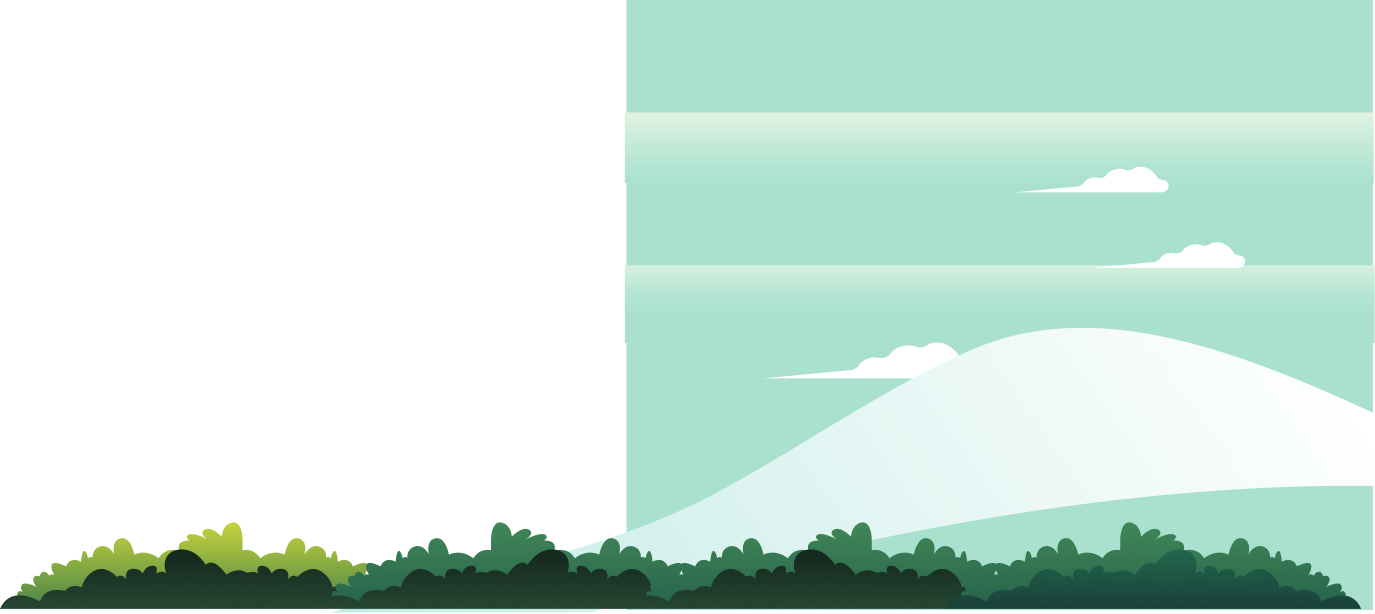
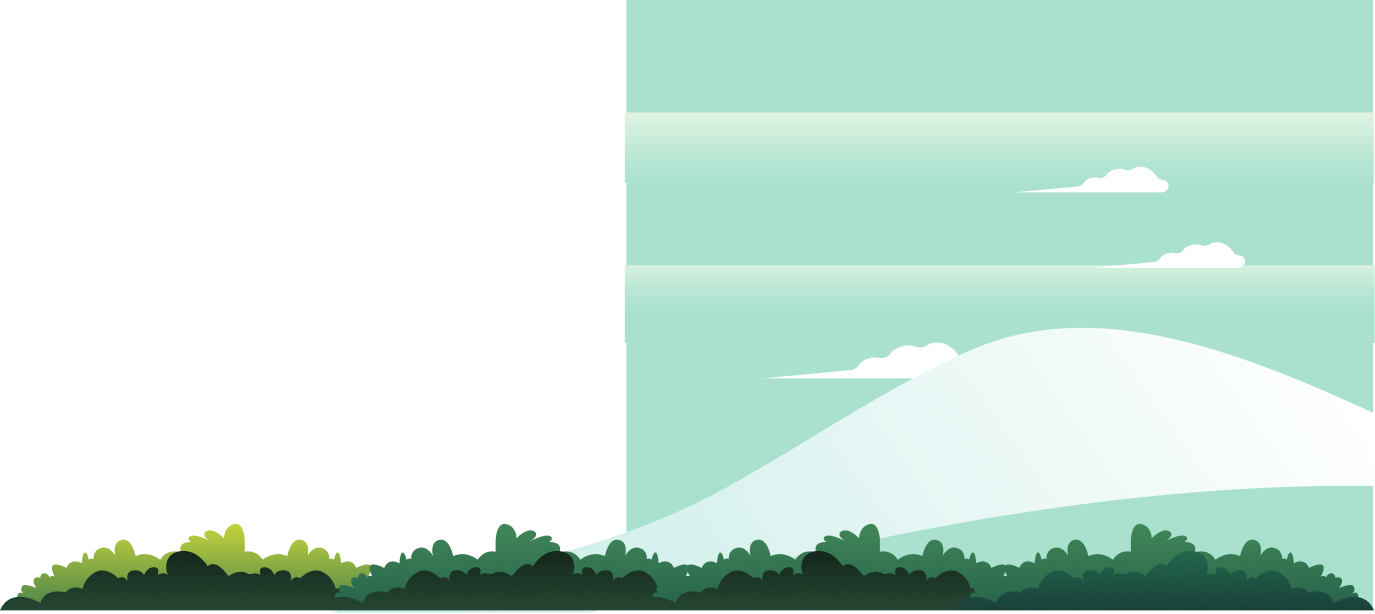
upgrade

diff --git a/gallery.html b/gallery.html
@@ -50,6 +50,23 @@
             <p>Pada halaman ini, anda dapat melihat foto kegiatan masyarakat dalam mengelola berbagai olahan singkong.</p>
           </div>
         </div>
+        <div class="row justify-content-center baris-2">
+          <div class="col-10">
+            <img src="img/scroll-down.png" alt="">
+            <h1>Geser Ke Bawah</h1>
+          </div>
+        </div>
+      </div>
+    </div>
+    <div class="main-2">
+      <div class="container">
+        <div class="jumbotron">
+          <h1 class="display-4">Hello, world!</h1>
+          <p class="lead">This is a simple hero unit, a simple jumbotron-style component for calling extra attention to featured content or information.</p>
+          <hr class="my-4">
+          <p>It uses utility classes for typography and spacing to space content out within the larger container.</p>
+          <a class="btn btn-primary btn-lg" href="#" role="button">Learn more</a>
+        </div>
       </div>
     </div>
     <script src="https://cdn.jsdelivr.net/npm/bootstrap@5.0.2/dist/js/bootstrap.bundle.min.js" integrity="sha384-MrcW6ZMFYlzcLA8Nl+NtUVF0sA7MsXsP1UyJoMp4YLEuNSfAP+JcXn/tWtIaxVXM" crossorigin="anonymous"></script>

diff --git a/scss/gallery.scss b/scss/gallery.scss
@@ -15,9 +15,9 @@ body {
     &::before{
       content: '';
       background-image: url(../img/page-page.png);
-      background-position: top right;
+      background-position: top;
       background-repeat: no-repeat;
-      background-size: 110vmax;
+      background-size: 100vmax;
       opacity: 0.9;
       position: absolute;
       top: 0;
@@ -57,6 +57,8 @@ body {
     }
 }
 .main-1{
+    padding-top: 50px;
+    padding-bottom: 70px;
     .container{
         .baris-1{
             .col-5{
@@ -68,6 +70,27 @@ body {
                     font-size: 20px;
                 }
             }
+        }
+        .baris-2{
+            padding-top: 150px;
+            .col-10{
+                img{
+                    width: 55px;
+                    height: 40px;
+                }
+                h1{
+                    font-size: 20px;
+                }
+            }
+        }
+    }
+}
+.main-2{
+    padding-top: 50px;
+    background-color: $tertiaryColor;
+    .container{
+        .jumbotron{
+
         }
     }
 }

diff --git a/scss/gallery.css b/scss/gallery.css
@@ -7,9 +7,9 @@ body {
 body::before {
   content: '';
   background-image: url(../img/page-page.png);
-  background-position: top right;
+  background-position: top;
   background-repeat: no-repeat;
-  background-size: 110vmax;
+  background-size: 100vmax;
   opacity: 0.9;
   position: absolute;
   top: 0;
@@ -43,6 +43,11 @@ body::before {
   color: #9a9384;
 }
 
+.main-1 {
+  padding-top: 50px;
+  padding-bottom: 70px;
+}
+
 .main-1 .container .baris-1 .col-5 h1 {
   line-height: 0.7em;
   font-size: 50px;
@@ -50,5 +55,23 @@ body::before {
 
 .main-1 .container .baris-1 .col-5 p {
   font-size: 20px;
+}
+
+.main-1 .container .baris-2 {
+  padding-top: 150px;
+}
+
+.main-1 .container .baris-2 .col-10 img {
+  width: 55px;
+  height: 40px;
+}
+
+.main-1 .container .baris-2 .col-10 h1 {
+  font-size: 20px;
+}
+
+.main-2 {
+  padding-top: 50px;
+  background-color: #08660d;
 }
 /*# sourceMappingURL=gallery.css.map */

diff --git a/scss/contact.scss b/scss/contact.scss
@@ -15,9 +15,9 @@ body {
   &::before{
     content: '';
     background-image: url(../img/page-page.png);
-    background-position: top right;
+    background-position: top;
     background-repeat: no-repeat;
-    background-size: 110vmax;
+    background-size: 100vmax;
     opacity: 0.9;
     position: absolute;
     top: 0;

diff --git a/scss/contact.css b/scss/contact.css
@@ -7,9 +7,9 @@ body {
 body::before {
   content: '';
   background-image: url(../img/page-page.png);
-  background-position: top right;
+  background-position: top;
   background-repeat: no-repeat;
-  background-size: 110vmax;
+  background-size: 100vmax;
   opacity: 0.9;
   position: absolute;
   top: 0;

diff --git a/scss/main.scss b/scss/main.scss
@@ -15,7 +15,7 @@ body {
   &::before{
     content: '';
     background-image: url(../img/landing_page_1.5x.png);
-    background-position: top right;
+    background-position: top;
     background-repeat: no-repeat;
     background-size: 100vmax;
     opacity: 0.9;

diff --git a/scss/main.css b/scss/main.css
@@ -7,7 +7,7 @@ body {
 body::before {
   content: '';
   background-image: url(../img/landing_page_1.5x.png);
-  background-position: top right;
+  background-position: top;
   background-repeat: no-repeat;
   background-size: 100vmax;
   opacity: 0.9;
